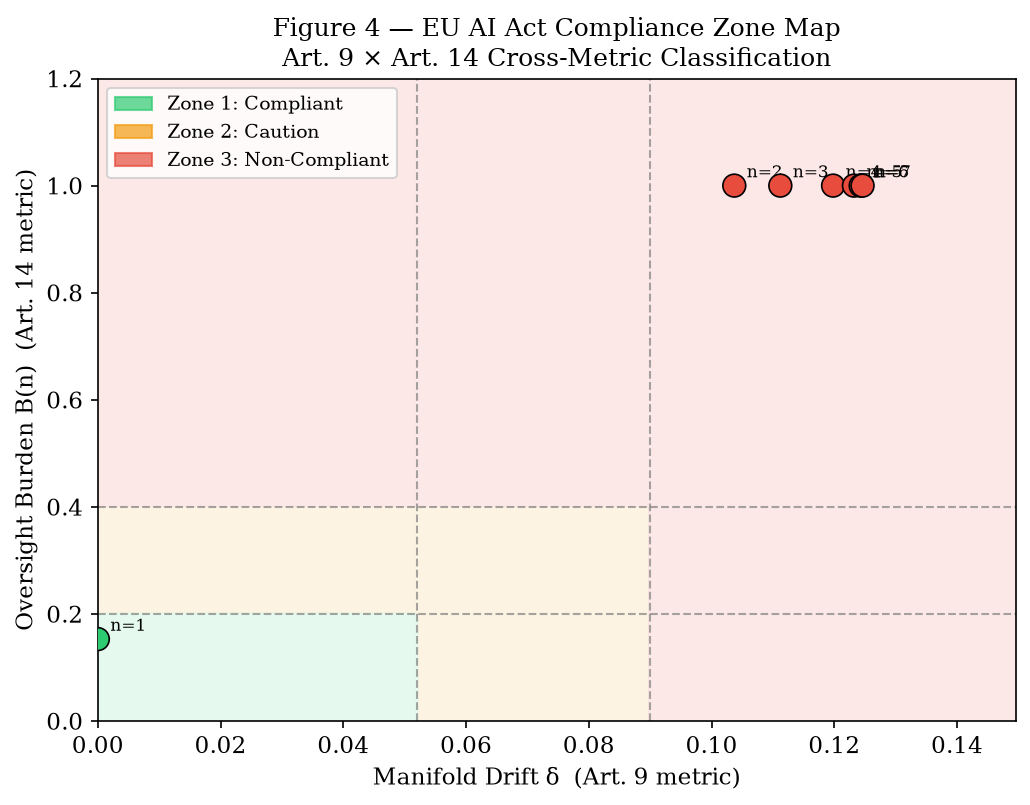
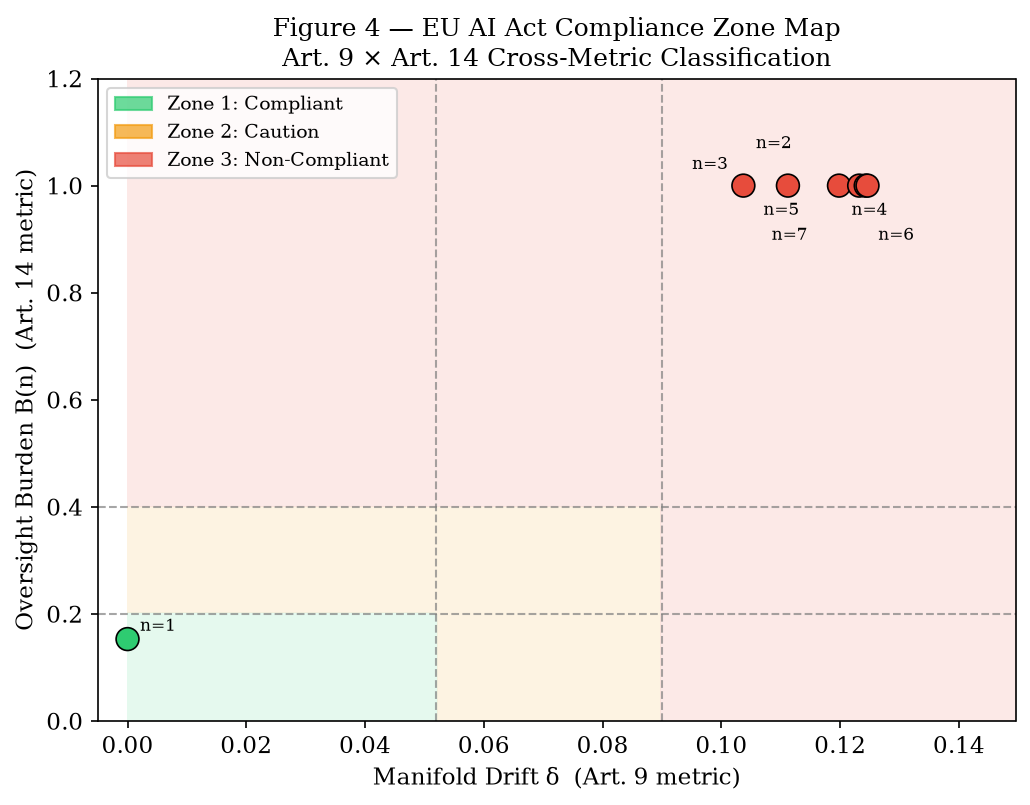
Fix Figure 4: add x-margin for n=1 dot, stagger overlapping labels

diff --git a/src/visualize.py b/src/visualize.py
@@ -187,13 +187,27 @@ def plot_compliance_heatmap(conditions: List[Dict], zones: List[Dict], cfg: Expe
         s=120, zorder=5, edgecolors="black", linewidths=0.8,
         vmin=1, vmax=3)
 
-    for d, b, n in zip(deltas, burdens, ns):
-        ax.annotate(f"n={n}", (d, b), textcoords="offset points", xytext=(6, 4), fontsize=8)
+    # Staggered offsets so labels don't collide — n=2–7 all sit at B=1.0
+    # with very similar δ, so alternate left/right and step down in y.
+    label_offsets = [
+        (6,   4),   # n=1: isolated, right/above
+        (6,  18),   # n=2: right, high above
+        (-46,  8),  # n=3: left, lower above (vertical stagger clears n=2)
+        (6,  -14),  # n=4: right, below
+        (-46, -14), # n=5: left, below
+        (6,  -26),  # n=6: right, further below
+        (-46, -26), # n=7: left, further below
+    ]
+    for (d, b, n), (ox, oy) in zip(zip(deltas, burdens, ns), label_offsets):
+        ax.annotate(f"n={n}", (d, b), textcoords="offset points", xytext=(ox, oy), fontsize=8)
 
     ax.axvline(cfg.zone1_delta_max, color="grey", linestyle="--", linewidth=1.0, alpha=0.7)
     ax.axvline(cfg.zone2_delta_max, color="grey", linestyle="--", linewidth=1.0, alpha=0.7)
     ax.axhline(cfg.zone1_burden_max, color="grey", linestyle="--", linewidth=1.0, alpha=0.7)
     ax.axhline(cfg.zone2_burden_max, color="grey", linestyle="--", linewidth=1.0, alpha=0.7)
+
+    # Add left margin so the n=1 dot at δ=0 isn't clipped by the axis edge
+    ax.set_xlim(-0.005, max(deltas) * 1.2)
 
     ax.set_xlabel("Manifold Drift δ  (Art. 9 metric)")
     ax.set_ylabel("Oversight Burden B(n)  (Art. 14 metric)")